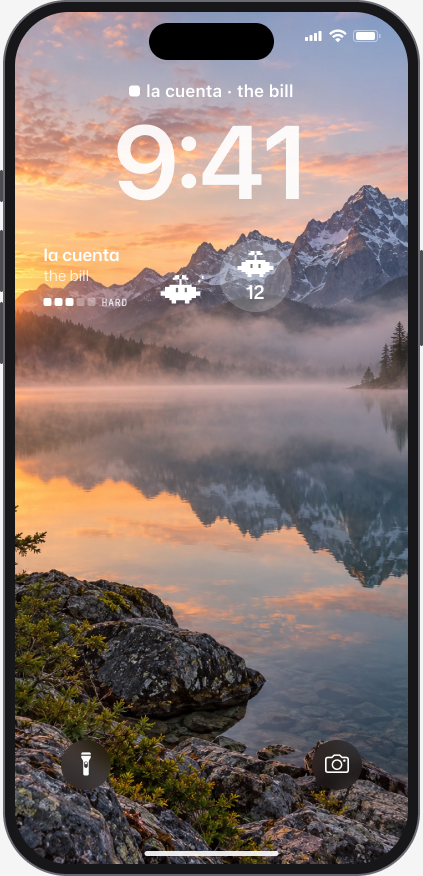
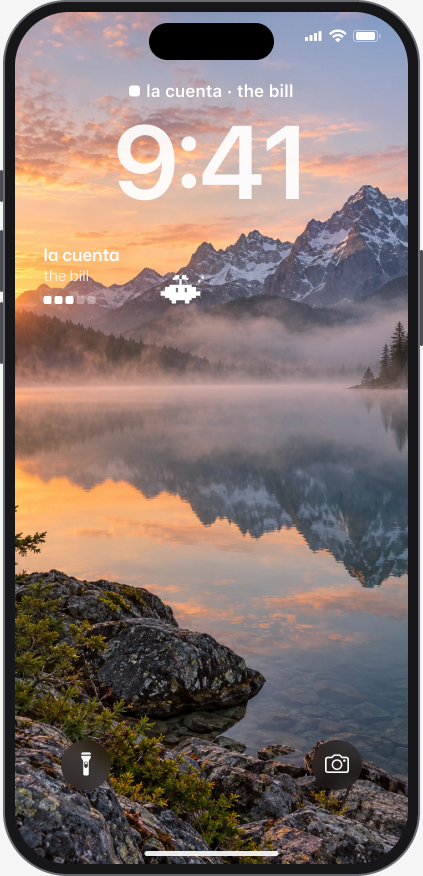
docs: widgets show hard words only, no card count, a tap opens Review on that word

Changed region(s): [[0.5225, 0.2774, 0.7069, 0.3699], [0.2459, 0.339, 0.3073, 0.3699], [0.1537, 0.339, 0.1844, 0.3699]]

diff --git a/docs/roadmap.html b/docs/roadmap.html
@@ -123,8 +123,8 @@ a{color:var(--green-text)}
 </article>
 <article class="card doing">
   <header><span class="num">6</span><h3>Widgets (full)</h3><div class="status"><span class="pill doing"><i></i>In progress</span><span class="note">proposed</span></div></header>
-  <div class="field"><span class="label">Done</span><div class="chips"><span class="chip">Spike passed (0.4)</span><span class="chip">2026-11-25: the iOS limits are written down (<code>docs/widget-limits.md</code>), the v1 design is in Figma (page "Widgets", frames "v1</span><span class="chip">…"; pictures in <code>docs/design/widgets/</code>), and two changes are proposed: each word gets 5 looks of 30 minutes, hard words first, the server makes the plan. <strong>Checkpoint 1: waits for Hamid.</strong></span></div></div>
-  <div class="field"><span class="label">Still open</span><div class="chips"><span class="chip"><code>lock-widgets</code> (server plan and look rule, inline, rectangular, circular, tap opens the word, O14)</span><span class="chip">then <code>home-widgets</code> (small, medium; light, dark, tinted; word picture)</span><span class="chip">a real iPhone may need the paid Apple account (app group)</span></div></div>
+  <div class="field"><span class="label">Done</span><div class="chips"><span class="chip">Spike passed (0.4)</span><span class="chip">2026-11-25: the iOS limits are written down (<code>docs/widget-limits.md</code>), the v1 design is in Figma (page "Widgets", frames "v1</span><span class="chip">…"; pictures in <code>docs/design/widgets/</code>), and two changes are proposed: only hard words, each gets 5 looks of 30 minutes, the server makes the plan, a tap opens Review with that word first (Hamid's first answer, 2026-11-25: no card count, no circular widget). <strong>Checkpoint 1: waits for Hamid.</strong></span></div></div>
+  <div class="field"><span class="label">Still open</span><div class="chips"><span class="chip"><code>lock-widgets</code> (server plan and look rule, inline, rectangular, tap opens Review on that word, O14)</span><span class="chip">then <code>home-widgets</code> (small, medium; light, dark, tinted; word picture)</span><span class="chip">a real iPhone may need the paid Apple account (app group)</span></div></div>
   <div class="field"><span class="label">Figma</span><p>Widgets</p></div>
 </article>
 <article class="card doing">

diff --git a/docs/roadmap.md b/docs/roadmap.md
@@ -51,7 +51,7 @@ Status: ⬜ not started · 🟨 in progress · ✅ done. Order follows the dev g
 | 3 | Progress tab | The tab exists with its Figma icon (empty screen, 2026-11-17) · `progress-server` (2026-11-20): the numbers (`GET /v1/progress`), the deck list (`GET /v1/decks`), hard and known flags on deck cards, restore a known word, a round for one deck · `progress-decks` (2026-11-20): Your decks (P2), the deck words page with counts, chain, filters, hard mark, Restore and "Review this deck" (P3), the Progress tab shows the total and opens the decks · `progress-home` (2026-11-20): P1 with new / learning / mastered, the goal grid, "BY <date> you'll master N new <language> words", Kai on the ground strip and the pixel meadow (one tree per deck, ported from `docs/design/pixel-meadow.html`) · `word-plan` (2026-11-20): Kai's plan of three next decks (`GET /v1/plan`, kept per learner); a tap asks Kai for that deck in the New words chat | A deck icon per topic and pictures (Hamid: no pictures for now) · "From a video" and "My own words" decks (not in v1) · "Recently deleted" (open decision 9) · not checked on a real phone | Progress | ✅ 2026-11-20 |
 | 4 | New words tab | `new-words-kai-chat` (2026-11-17): the tab is one ongoing chat with Kai. Kai is an agent with memory (profile, saved notes, the last 20 messages, word facts) on the real AI. Every Kai line has a translation, with an on/off button (on for A1/A2). Kai leads to Review. Figma N1–N8 updated. · `new-words-single-words` (2026-11-19): Kai answers "How do I say…?" and "What does … mean?" with a word card (word, speaker, meaning, example); "Add to Random Words 1" saves it as a normal new card in a deck of 30 made by the server (then "Random Words 2"); a word the learner already has is not added twice; the Review tab gets a red dot. · `new-words-decks` (2026-11-19): Kai offers 3 deck ideas as cards the learner swipes (on the first visit Kai asks first), or 1 card from the learner's own idea; each deck has its own size (10 to 30 words, Kai picks it) and a title in the learning language with a translation; Generate makes it, it is in the word list at once, Kai says so, the Review tab gets a red dot; then "Let's practice" or "Make another deck". · `remove-words-and-decks` (2026-11-19): on the deck page the learner swipes a word left and taps Delete, or taps Remove deck (a pop-up asks first); removed words leave Review, the hard words and what Kai knows; removing is a mark in the database, not a delete; a Random Words deck that lost a word has room again. · `new-words-polish` (2026-11-19): Kai's header follows the chat (listening, thinking, speaking, making, celebrate, oops, waiting after 20 quiet seconds, sleeping after 2 minutes); a tapped option moves up; Persian and Arabic text is right-aligned (each text by its own script: bubbles, translations, the composer, word and deck cards); scrolling to the top loads older messages, 50 at a time. | Free limits (Hamid, 2026-11-20: none for now, decided after the whole app is built, with epic 7) · deck pictures (Hamid, 2026-11-20: none for now) · the deck page N7 (it still shows the English topic as its heading) · the chat's line queue still uses its own typing rule, not `useKaiTyping` (its tests check that rule's times; see `new-words-polish`, tasks.md) · new Kai drawings for "asking", "I don't know" and "happy" (needs a design). | New words | ✅ 2026-11-19 (the three changes) |
 | 5 | Use it | `first-review`: Use it chat (A6–A6c), stage +1 on a good sentence; real AI check in the cloud (2026-11-17) · `use-it-rules` (2026-11-20): offered from Stage 3 (every word in the first round), a good sentence counts once per word per day, follow-up questions to Kai (`POST /v1/cards/{id}/ask`), a weak sentence keeps its options | Voice input (the mic in the text box does nothing; comes with Speak, after v1) · weekly free limit (Hamid: no limits for now) · not checked by a person on a real phone | Review | ✅ 2026-11-20 |
-| 6 | Widgets (full) | Spike passed (0.4) · 2026-11-25: the iOS limits are written down (`docs/widget-limits.md`), the v1 design is in Figma (page "Widgets", frames "v1 · …"; pictures in `docs/design/widgets/`), and two changes are proposed: each word gets 5 looks of 30 minutes, hard words first, the server makes the plan. **Checkpoint 1: waits for Hamid.** | `lock-widgets` (server plan and look rule, inline, rectangular, circular, tap opens the word, O14) · then `home-widgets` (small, medium; light, dark, tinted; word picture) · a real iPhone may need the paid Apple account (app group) | Widgets | 🟨 proposed |
+| 6 | Widgets (full) | Spike passed (0.4) · 2026-11-25: the iOS limits are written down (`docs/widget-limits.md`), the v1 design is in Figma (page "Widgets", frames "v1 · …"; pictures in `docs/design/widgets/`), and two changes are proposed: only hard words, each gets 5 looks of 30 minutes, the server makes the plan, a tap opens Review with that word first (Hamid's first answer, 2026-11-25: no card count, no circular widget). **Checkpoint 1: waits for Hamid.** | `lock-widgets` (server plan and look rule, inline, rectangular, tap opens Review on that word, O14) · then `home-widgets` (small, medium; light, dark, tinted; word picture) · a real iPhone may need the paid Apple account (app group) | Widgets | 🟨 proposed |
 | 7 | Paywall + trial | `first-review`: the screens (hard words, trial reminder, paywall). **It sells nothing.** | `paywall` (soft: closing = free plan; RevenueCat) · `free-limits` (server) · `sign-in-after-purchase` (the login page comes right after the user subscribes; the Figma login page must be fixed first: it has no top bar and no badge) · needs RevenueCat + Apple accounts | Onboarding | 🟨 |
 | 8 | Web app | `web-build` (2026-11-20): the app runs in a browser as one page app (onboarding, the three tabs, rounds, Use it, decks, Progress); guest session kept in the browser; bottom tab bar; Kai as still poses; browser dialogs; the server allows the web app's address (`WEB_ORIGINS`); CI builds the web app | A public address (Hamid decides; wait for free limits) · web payments (provider is open, decision 10) · live Kai on the web · a desktop layout · not checked in Safari, Firefox or a phone browser | all | 🟨 |
 | 9 | Launch prep | — | analytics events (PostHog) · account delete · one performance check · real testimonials · App Store submission | — | ⬜ |

diff --git a/openspec/changes/lock-widgets/design.md b/openspec/changes/lock-widgets/design.md
@@ -2,19 +2,20 @@
 Limits: `docs/widget-limits.md`. The widget code (`expo-widgets`) has no network, no timers and no imports; it only draws the props of the current timeline entry. So the server makes the plan, the app carries it, the widget shows it.
 
 ## Decisions
-- **A look is a 30-minute slot. Why 30:** a day has 16 waking hours = 32 slots. With 5 looks per word that is about 6 words a day, which fits a learner who gets 10 to 30 new words per deck and a few hard words a day. With 60 minutes only 3 words a day would get their looks, and a hard word would wait days for its turn. Shorter than 30 minutes and a word would often change before the person looked at the phone even once. 30 is the low end of Hamid's range (30 to 60); it is one constant on the server (`SLOT_MINUTES`), easy to change.
+- **A look is a 30-minute slot. Why 30:** a day has 16 waking hours = 32 slots. With 5 looks per word that is about 6 hard words a day, which fits a learner who swipes a few words Hard per round. With 60 minutes only 3 words a day would get their looks, and a hard word would wait days for its turn. Shorter than 30 minutes and a word would often change before the person looked at the phone even once. 30 is the low end of Hamid's range (30 to 60); it is one constant on the server (`SLOT_MINUTES`), easy to change.
 - **Words take turns in a group of 6** instead of 5 slots in a row. One word then comes back about every 3 hours, which is better for memory than 2.5 hours in one block, and the lock screen is not the same for a whole morning. With fewer than 6 words the group is smaller; with one word it repeats.
 - **Night slots do not count.** From 23:00 to 07:00 the widget keeps the last word of the evening and no look is counted, because nobody has the chance to see it.
-- **Order** (the server decides, the app never sorts): hard words first (fewest looks first, then oldest), then words in review with the nearest due date, then new words in deck order. Known and removed words are never in.
-- **After 5 looks** a word leaves the group and the next word in the order comes in. When every word had its 5 looks, a new lap starts with the same order. A word swiped Hard again starts at 0 looks.
+- **Only hard words** (Hamid, 2026-11-25). Order (the server decides, the app never sorts): fewest looks first, then the oldest card. A word is hard as the Review rules say (swiped Hard, until Stage 3). Known and removed words are never in.
+- **After 5 looks** a word leaves the group and the next word in the order comes in. When every hard word had its 5 looks, a new lap starts with the same order, so the widget is never empty while hard words exist. A word swiped Hard again starts at 0 looks.
 - **Looks never touch SRS.** No stage, no due date and no hard mark changes because of the widget. They live in their own table.
 - **The server counts by time.** It keeps the plan it handed out (`widget_plans`: user, slots, made at). On the next call it adds one look for every kept slot whose end has passed (`widget_looks`: user, card, looks, lap), then makes a new plan from now. It cannot know whether the widget is on the lock screen; a learner without the widget just rotates unseen.
-- **48 hours per plan** (64 slots at most, plus one last entry "New words wait · Open Lockwords"). The app refreshes the plan whenever it is opened, which is free of the iOS refresh budget.
+- **48 hours per plan** (64 slots at most, plus one last entry "Open Lockwords · for your hard words"). The app refreshes the plan whenever it is opened, which is free of the iOS refresh budget.
 - **The pose is not a rule.** The server sends `look` (1 to 5). The widget maps it to Kai's pose: 1 greeting, 2 idle, 3 thinking, 4 speaking, 5 celebrate. Kai has no animation in a widget; the new pose with each slot is what makes it feel alive.
-- **One widget, three lock families.** One `expo-widgets` widget "Lockwords" lists `accessoryRectangular`, `accessoryCircular`, `accessoryInline` (the home sizes join in `home-widgets`). The layout reads `environment.widgetFamily`.
+- **One widget, two lock families.** One `expo-widgets` widget "Lockwords" lists `accessoryRectangular` and `accessoryInline`. No circular: it cannot hold a word, and Hamid wants no card count (the home sizes join in `home-widgets`). The layout reads `environment.widgetFamily`.
 - **Kai on the lock screen is a one-color picture.** iOS keeps only brightness there, so Kai's body is white and the eyes are darker. The five poses are PNG files made from `assets/kai/*.svg` by a script, shipped with the app and copied once into the shared widget folder. If file pictures fail in the extension, the fallback is Kai drawn from rectangles in the layout.
 - **Font:** Mona Sans in the rectangular widget if a small config plugin of our own can put the font files into the extension; if not, the system font. The inline widget always uses the system font (iOS decides). This is tried in task 3.2 and the result is written in `tasks.md`.
-- **Tap:** the rectangular and inline widgets carry `widgetURL("lockwords://word/<cardId>")`; the circular one `lockwords://review`. The last entry opens the app's start. The word screen is the review flashcard alone, read from `GET /v1/cards/{id}` if it exists, else from the deck; no swipe there.
+- **Tap:** a word entry carries `widgetURL("lockwords://review?first=<cardId>")`. The app opens the Review tab and starts the round at once (no start screen) with `GET /v1/review?first=<cardId>`. The server puts that card first. The "no hard words" and "open the app" entries open the Review tab as it is.
+- **A tapped word that is not due today (open, see the question to Hamid).** A hard word was swiped Hard, so it is due tomorrow, and today the rules refuse a swipe on it. Proposed: the card still shows first as a **look card**: flip, speaker and Use it work, the three swipes are replaced by one "Next" button, and its level does not change. If the word is due today it is a normal first card.
 - **The time zone** comes with the call, like every review call. The day window is 07:00 to 23:00 in that zone.
 
 ## Risks

diff --git a/openspec/changes/lock-widgets/proposal.md b/openspec/changes/lock-widgets/proposal.md
@@ -4,12 +4,12 @@ Hard words on the lock screen is the main promise of Lockwords (`docs/product.md
 iOS never tells an app that a person looked at a widget (`docs/widget-limits.md` 8). So a "look" is a fixed time slot, not a real view.
 
 ## What Changes
-- **The look rule (server).** A word is on the widget for one **slot of 30 minutes**. A word is done after **5 slots**. Slots run only from 07:00 to 23:00 on the learner's clock. Words take turns (A, B, C … then A again), up to 6 words in a group, so the 5 looks of one word are spread over the day. Hard words come first, then the most-due words. Looking never changes a word's level.
-- **`GET /v1/widget/plan` (server).** Answers the list of slots for the next 48 hours: time, word, translation, hard or not, which look (1 to 5), plus the number of cards due today. The server keeps the plan it handed out and counts the slots whose time has passed.
+- **The look rule (server).** A word is on the widget for one **slot of 30 minutes**. A word is done after **5 slots**. Slots run only from 07:00 to 23:00 on the learner's clock. Words take turns (A, B, C … then A again), up to 6 words in a group, so the 5 looks of one word are spread over the day. **Only hard words are on the widget** (Hamid, 2026-11-25): that is its one job. Looking never changes a word's level.
+- **`GET /v1/widget/plan` (server).** Answers the list of slots for the next 48 hours: time, word, translation and which look (1 to 5). The server keeps the plan it handed out and counts the slots whose time has passed.
 - **The app hands the plan to the widget** (`expo-widgets`, app group) when it opens, when it comes back to the front, and after a review round. iOS only.
-- **Three lock screen widgets** (Figma "Widgets", v1 frames): rectangular (word, meaning, five squares for the look, HARD mark, a one-color Kai whose pose changes with the look), circular (Kai and the number of cards due today), inline (word · meaning next to the date).
-- **A tap opens the word** in the app: the address `lockwords://word/<id>` opens that word's card alone (flip, speaker, Use it, X). The circular widget opens the Review tab.
-- **When the list runs out** (the app was not opened for 2 days) the widget says "New words wait · Open Lockwords".
+- **Two lock screen widgets** (Figma "Widgets", v1 frames): rectangular (word, meaning, five squares for the look, a one-color Kai whose pose changes with the look) and inline (word · meaning next to the date). **No circular widget and no number of cards** (Hamid, 2026-11-25): a circle is too small for a word.
+- **A tap opens Review with that word as the first card** (Hamid, 2026-11-25): the address `lockwords://review?first=<id>`, and `GET /v1/review` takes `first`.
+- **With no hard words** the widget says "No hard words · Swipe left in Review". **When the list runs out** (the app was not opened for 2 days) it says "Open Lockwords · for your hard words".
 - **O14** ("Hard words go to your lock screen") shows the widget as designed, and one line on how to add it.
 - `docs/product.md` 7.4 gets the look rule. `docs/roadmap.md`, `docs/screens.md` are updated.
 
@@ -20,11 +20,12 @@ Out of scope: home screen widgets (next change, `home-widgets`); answering on th
 - `widgets/server`: the look rule and the widget plan.
 - `widgets/mobile`: handing the plan to the widget, the lock screen widgets, the tap.
 ### Modified Capabilities
-- `review/mobile`: Hard words screen (O14) shows the real widget look.
+- `review/mobile`: Hard words screen (O14) shows the real widget look; new: a round can start with one chosen word.
+- `review/server`: new: a round with a first card.
 
 ## Impact
-- Server: new `src/widget/plan.ts` (pure rule), `src/db/widget.ts`, `src/routes/widget.ts`, one migration (tables `widget_plans`, `widget_looks`), one line in `src/app.ts`, `openapi.json`.
-- App: **new native package `expo-widgets`** (Expo's own widget package, the one the spike used; `@expo/ui` is already installed). It adds a widget extension and an app group through its config plugin in `app.json`. **Every session needs a new dev build after this merges.** New `src/widgets/` (widget layout, plan sync), `src/app/word/[id].tsx`, `src/api/client.ts` (one function), `src/app/_layout.tsx` (start the sync), `src/components/lock-phone.tsx`, `src/app/intro/hard-words.tsx`.
+- Server: `src/routes/review.ts` and `src/review/srs.ts` (the `first` card), new `src/widget/plan.ts` (pure rule), `src/db/widget.ts`, `src/routes/widget.ts`, one migration (tables `widget_plans`, `widget_looks`), one line in `src/app.ts`, `openapi.json`.
+- App: **new native package `expo-widgets`** (Expo's own widget package, the one the spike used; `@expo/ui` is already installed). It adds a widget extension and an app group through its config plugin in `app.json`. **Every session needs a new dev build after this merges.** New `src/widgets/` (widget layout, plan sync), `src/app/(tabs)/review.tsx` and `src/review/round-store.ts` (the first card), `src/api/client.ts`, `src/app/_layout.tsx` (start the sync), `src/components/lock-phone.tsx`, `src/app/intro/hard-words.tsx`.
 - Shared files touched: `apps/server/src/app.ts`, `apps/server/src/db/schema.ts` + one migration, `openapi.json`, `apps/mobile/src/api/client.ts` and `schema.ts`, `app.json`, `docs/roadmap.md`.
 - Real iPhone: the build on Hamid's phone uses a free personal Apple team. The widget needs a second app ID and an app group. Not tried yet; it may need the paid Apple Developer account (`docs/widget-limits.md` 10).
 - Figma: page "Widgets", frames "v1 · …" (made 2026-11-25); components on page "Components", frame "08b Widgets v1". The old frames are kept below, marked OLD.

diff --git a/openspec/changes/lock-widgets/tasks.md b/openspec/changes/lock-widgets/tasks.md
@@ -1,21 +1,21 @@
 ## 1. Server: the look rule and the plan
-- [ ] 1.1 Tests first: `test/unit/widget-plan.test.ts` (30-minute slots, day window 07:00 to 23:00 in the learner's zone, turns in a group of 6, hard first, then most due, then new, 5 looks then the next word, a new lap, passed slots counted once, known and removed words left out, no words) and `test/integration/widget-plan.test.ts` (the kept plan and the looks in the database, `401` without a token). See them fail.
+- [ ] 1.1 Tests first: `test/unit/widget-plan.test.ts` (30-minute slots, day window 07:00 to 23:00 in the learner's zone, turns in a group of 6, only hard words, fewest looks first, 5 looks then the next word, a new lap, passed slots counted once, known and removed words left out, no words) and `test/integration/widget-plan.test.ts` (the kept plan and the looks in the database, `401` without a token). See them fail.
 - [ ] 1.2 `src/widget/plan.ts` (pure, `now` passed in), migration (`widget_plans`, `widget_looks`), `src/db/widget.ts`, `GET /v1/widget/plan` in `src/routes/widget.ts`, one line in `src/app.ts`. `npm run openapi`.
 - [ ] 1.3 A Hard swipe sets that word's looks to 0 (test first, in `widget-plan` tests; no existing test changes).
 
 ## 2. App: carry the plan
-- [ ] 2.1 `npx expo install expo-widgets`; the plugin entry in `app.json` (widget "Lockwords", three lock families, app group). New dev build on the simulator `LW New words 2`.
-- [ ] 2.2 Tests first: `__tests__/widget-sync.test.ts` (plan → timeline entries with look and pose, the last "open the app" entry, nothing on web or when signed out, a failed load keeps the old timeline). Then `npm run api:gen`, `api.fetchWidgetPlan`, `src/widgets/sync.ts`, called from `src/app/_layout.tsx` on start, on return to the front, and after a round.
+- [ ] 2.1 `npx expo install expo-widgets`; the plugin entry in `app.json` (widget "Lockwords", two lock families, app group). New dev build on the simulator `LW New words 2`.
+- [ ] 2.2 Tests first: `__tests__/widget-sync.test.ts` (plan → timeline entries with look and pose, the "no hard words" entry, the last "open the app" entry, nothing on web or when signed out, a failed load keeps the old timeline). Then `npm run api:gen`, `api.fetchWidgetPlan`, `src/widgets/sync.ts`, called from `src/app/_layout.tsx` on start, on return to the front, and after a round.
 
 ## 3. The lock screen widgets
-- [ ] 3.1 `src/widgets/lockwords-widget.tsx`: rectangular, circular, inline as in Figma "Widgets" v1; Kai one-color PNG poses made by `scripts/gen-widget-kai.mjs` and copied to the shared folder.
+- [ ] 3.1 `src/widgets/lockwords-widget.tsx`: rectangular and inline as in Figma "Widgets" v1; Kai one-color PNG poses made by `scripts/gen-widget-kai.mjs` and copied to the shared folder.
 - [ ] 3.2 Try Mona Sans in the extension (own config plugin `plugins/with-widget-fonts.js`). Write the result here; fall back to the system font if it fails.
-- [ ] 3.3 Tap: tests first for `src/app/word/[id].tsx` (loading, error, the card, X goes to the tabs), then the screen and the `lockwords://word/<id>` and `lockwords://review` addresses.
+- [ ] 3.3 Tap: tests first, server (`GET /v1/review?first=`: the card is first, due or not; another learner's or a removed card is ignored) and app (the address `lockwords://review?first=<id>` opens the Review tab inside the round with that card on top; a look card has Next and no swipes). Then build both. No existing test is changed.
 
 ## 4. O14 and docs
 - [ ] 4.1 O14: test first (the phone shows the widget look: word, meaning, five squares; the line "Hold your lock screen, tap Customize, add Lockwords"). Update `LockPhone`, the Figma frame O14 and `docs/screens.md`.
 - [ ] 4.2 `docs/product.md` 7.4 (the look rule), `docs/roadmap.md`, `docs/architecture.md`, `apps/mobile/CLAUDE.md`.
 
 ## 5. Check
-- [ ] 5.1 On the simulator: add the three widgets to the lock screen, see a real word of the signed-in learner, move the clock 30 minutes and see the next word, tap and land on the word. Screenshots in the PR. Maestro flow `e2e/flows/lock-widgets.yaml` for the app side (O14, the word screen from the address), video `e2e/videos/lock-widgets.mp4`.
+- [ ] 5.1 On the simulator: add the two widgets to the lock screen, see a real word of the signed-in learner, move the clock 30 minutes and see the next word, tap and land in Review on that word. Screenshots in the PR. Maestro flow `e2e/flows/lock-widgets.yaml` for the app side (O14, Review from the address with the word first), video `e2e/videos/lock-widgets.mp4`.
 - [ ] 5.2 Try the build on Hamid's iPhone. Write plainly what worked and what was not checked.

diff --git a/openspec/changes/lock-widgets/specs/widgets/mobile/spec.md b/openspec/changes/lock-widgets/specs/widgets/mobile/spec.md
@@ -1,7 +1,7 @@
 ## ADDED Requirements
 
 ### Requirement: The app hands the plan to the widget
-On iOS the app SHALL load `GET /v1/widget/plan` and give the slots to the widget as a timeline when the app starts with a signed-in learner, when it comes back to the front, and after a review round. The last timeline entry, at `endsAt`, is the "open the app" entry. If the load fails the widget keeps what it had. The web app and Android do nothing.
+On iOS the app SHALL load `GET /v1/widget/plan` and give the slots to the widget as a timeline when the app starts with a signed-in learner, when it comes back to the front, and after a review round. The last timeline entry, at `endsAt`, is the "open the app" entry. A plan with no slots gives one "no hard words" entry. If the load fails the widget keeps what it had. The web app and Android do nothing.
 
 #### Scenario: App opened
 - **WHEN** the learner opens the app and the plan has 12 slots
@@ -12,19 +12,15 @@ On iOS the app SHALL load `GET /v1/widget/plan` and give the slots to the widget
 - **THEN** the widget timeline is not changed and no error shows
 
 ### Requirement: Lock screen widgets
-The widget "Lockwords" SHALL offer three lock screen sizes that follow Figma "Widgets" (v1 frames): rectangular, circular and inline. They use no color and have no buttons. A word or meaning that is too long gets a smaller font, then is cut with "…".
+The widget "Lockwords" SHALL offer two lock screen sizes that follow Figma "Widgets" (v1 frames): rectangular and inline. It shows hard words only, and never a number of cards. They use no color and have no buttons. A word or meaning that is too long gets a smaller font, then is cut with "…".
 
 #### Scenario: Rectangular
 - **WHEN** the current slot is a word
-- **THEN** the widget shows the word, its meaning, five squares with one filled per look so far, "HARD" if the word is hard, and Kai in one color
+- **THEN** the widget shows the word, its meaning, five squares with one filled per look so far, and Kai in one color
 
 #### Scenario: Kai's pose
 - **WHEN** the look is 1, 2, 3, 4 or 5
 - **THEN** Kai's pose is greeting, idle, thinking, speaking or celebrate
-
-#### Scenario: Circular
-- **WHEN** 12 cards are due today
-- **THEN** the circular widget shows Kai and "12"
 
 #### Scenario: Inline
 - **WHEN** the current slot is "la cuenta"
@@ -32,23 +28,23 @@ The widget "Lockwords" SHALL offer three lock screen sizes that follow Figma "Wi
 
 #### Scenario: Third look of a hard word
 - **WHEN** the current slot is look 3 of the hard word "la cuenta"
-- **THEN** the rectangular widget shows "la cuenta", "the bill", three filled squares of five, "HARD" and Kai thinking
+- **THEN** the rectangular widget shows "la cuenta", "the bill", three filled squares of five and Kai thinking
 
-#### Scenario: Before the first plan
-- **WHEN** the widget was added and the app has no plan yet
-- **THEN** it shows "New words wait" and "Open Lockwords"
+#### Scenario: No hard words
+- **WHEN** the plan has no slots, or the widget was added before the app had a plan
+- **THEN** it shows "No hard words" and "Swipe left in Review"
 
 #### Scenario: The list ran out
 - **WHEN** the time is after `endsAt`
-- **THEN** the rectangular widget shows "New words wait" and "Open Lockwords", and the circular widget shows Kai with no number
+- **THEN** it shows "Open Lockwords" and "for your hard words"
 
-### Requirement: A tap opens the word
-A tap on the rectangular or inline widget SHALL open the app on that word: the word's card alone, with flip, speaker and Use it, and an X that goes to the tabs. A tap on the circular widget opens the Review tab. A tap on the "open the app" entry opens the app where it starts. If the word cannot be loaded (removed, or no connection) the app opens the Review tab.
+### Requirement: A tap opens Review on that word
+A tap on the widget while it shows a word SHALL open the app on the Review tab, inside the round, with that word as the first card. A tap on the "No hard words" or "Open Lockwords" entry opens the Review tab as it is. If the round cannot be loaded, the Review tab shows its own error.
 
 #### Scenario: Tap on a word
 - **WHEN** the learner taps the widget while it shows "la cuenta"
-- **THEN** the app opens the card of "la cuenta", front side up
+- **THEN** the Review tab opens with the card of "la cuenta" on top, front side up, and the rest of today's round under it
 
 #### Scenario: Removed word
 - **WHEN** the tapped word was removed
-- **THEN** the Review tab opens
+- **THEN** the Review tab opens as it is

diff --git a/docs/widget-limits.md b/docs/widget-limits.md
@@ -12,7 +12,7 @@ Where Apple's docs say nothing, this file says so.
 | 2 | **No free animation.** A widget only animates when its content changes, for 2 seconds at most. | Kai cannot move by itself. Kai gets a new still pose with every new word slot. |
 | 3 | **The widget cannot fetch.** With `expo-widgets` its code has no network and no timers. | The app gets the word plan from the server and hands it to the widget. |
 | 4 | **The lock screen has no color.** iOS turns everything into one tint. | Lock widgets are designed in white and greys. Kai needs a one-color drawing. |
-| 5 | **A lock screen widget is tiny.** 160×72 points for the big one. | One word, its meaning, five small squares, a small Kai. Nothing more fits. |
+| 5 | **A lock screen widget is tiny.** 160×72 points for the big one. | One hard word, its meaning, five small squares, a small Kai. Nothing more fits. The round one (72×72) is too small for a word, so we do not make it. |
 | 6 | **A real iPhone needs an app group on the Apple account.** | Works on the simulator. On Hamid's phone it is not sure yet (see "Signing"). |
 
 ## 1. Sizes
@@ -29,7 +29,7 @@ Sizes in points, from the HIG table "iOS dimensions":
 - Lock screen: inline (one line of text next to the date), circular, rectangular.
 - The small widget also shows in StandBy (the phone on its side while charging).
 - Sizes for the newest screens (402×874, 440×956) are not in Apple's table. The layout must stretch, not use fixed numbers.
-- **We use:** inline, circular, rectangular, small, medium (as `docs/product.md` 7.4 says). No large widget in v1.
+- **We use:** inline, rectangular, small, medium. No circular widget (Hamid, 2026-11-25: hard words only, no card count) and no large widget in v1.
 
 ## 2. Animation
 
@@ -81,7 +81,7 @@ All from AD `/widgetkit/keeping-a-widget-up-to-date`.
 
 - The app and the widget share one folder, the **app group** (`group.com.comebackhamid.lockwords`). The app writes, the widget reads.
 - With `expo-widgets` the app calls `updateTimeline(entries)`. The widget then runs alone from that list (`policy: .atEnd`).
-- The widget cannot ask the server by itself. If the app is not opened for days, the list runs out and the widget keeps its last entry. So the last entry must be a good one ("Open Lockwords for new words").
+- The widget cannot ask the server by itself. If the app is not opened for days, the list runs out and the widget keeps its last entry. So the last entry must be a good one ("Open Lockwords · for your hard words").
 - A silent push can ask iOS to reload a widget (iOS 26), but it cannot bring new words without our app code running, and it needs the paid Apple account. Not in v1.
 - `expo-widgets` cannot tell us whether the person added the widget. So the metric "Widget added" (`docs/product.md` 5) cannot be measured yet. A tap on the widget can be counted.
 

diff --git a/openspec/changes/lock-widgets/specs/widgets/server/spec.md b/openspec/changes/lock-widgets/specs/widgets/server/spec.md
@@ -20,27 +20,27 @@ The server SHALL count a look for a word for every 30-minute widget slot of that
 - **THEN** its stage, due date and hard mark are what they were
 
 ### Requirement: Widget plan
-`GET /v1/widget/plan` SHALL answer `200` with `{ slots, due, endsAt }` for the signed-in learner: the slots of the next 48 hours, the number of cards in today's round, and the end of the last slot. A slot has `at`, `cardId`, `word`, `translation`, `hard` and `look` (1 to 5). The server keeps the plan to count looks. The call carries the learner's time zone. Without a valid token the answer is `401`.
+`GET /v1/widget/plan` SHALL answer `200` with `{ slots, endsAt }` for the signed-in learner: the slots of the next 48 hours and the end of the last slot. A slot has `at`, `cardId`, `word`, `translation` and `look` (1 to 5). Only hard words are in the plan. The server keeps the plan to count looks. The call carries the learner's time zone. Without a valid token the answer is `401`.
 
 #### Scenario: Turns
-- **WHEN** the learner has 8 words with 0 looks
+- **WHEN** the learner has 8 hard words with 0 looks
 - **THEN** the first 6 words in the order take turns, one slot each, and the 7th word first shows in the slot after one of them had its 5th look
 
 #### Scenario: One word
-- **WHEN** the learner has one word
+- **WHEN** the learner has one hard word
 - **THEN** every slot is that word with looks 1 to 5, and after the 5th a new lap starts at look 1
 
-#### Scenario: No words
-- **WHEN** the learner has no cards
-- **THEN** `slots` is empty and `due` is 0
+#### Scenario: No hard words
+- **WHEN** the learner has cards but none is hard
+- **THEN** `slots` is empty
 
 ### Requirement: Widget order
-The plan SHALL take words in this order: hard words (fewest looks first, then the oldest card), then cards in review by the nearest due date, then new cards in deck order (oldest deck first). Cards marked known or removed are never in the plan. When every word in the order has 5 looks, a new lap starts and every word counts from 0 again.
+The plan SHALL hold only hard cards (the hard mark of the Review rules) that are not known and not removed, the one with the fewest looks first, then the oldest card. When every hard word has 5 looks, a new lap starts and every word counts from 0 again.
 
-#### Scenario: Hard first
+#### Scenario: Not hard
 - **WHEN** the learner has a hard word and a word due today that is not hard
-- **THEN** the hard word has the first slot
+- **THEN** every slot is the hard word
 
-#### Scenario: Known word
-- **WHEN** a word in the kept plan is swiped I know it and the plan is asked for again
+#### Scenario: No longer hard
+- **WHEN** a word in the kept plan reaches Stage 3 or is swiped I know it, and the plan is asked for again
 - **THEN** no slot has that word

diff --git a/openspec/changes/home-widgets/specs/widgets/mobile/spec.md b/openspec/changes/home-widgets/specs/widgets/mobile/spec.md
@@ -1,11 +1,11 @@
 ## ADDED Requirements
 
 ### Requirement: Home screen widgets
-The widget "Lockwords" SHALL offer a small and a medium home screen size that follow Figma "Widgets" (v1 frames). They follow the phone's light or dark look, use one color on a tinted or clear home screen, and have no buttons. A tap opens the word, as on the lock screen.
+The widget "Lockwords" SHALL offer a small and a medium home screen size that follow Figma "Widgets" (v1 frames). They follow the phone's light or dark look, use one color on a tinted or clear home screen, and have no buttons. They show hard words only. A tap opens Review on that word, as on the lock screen.
 
 #### Scenario: Small
-- **WHEN** the current slot is look 1 of "el mesero", not hard
-- **THEN** the small widget shows "REVIEW", "el mesero", "the waiter", one filled square of five and Kai waving
+- **WHEN** the current slot is look 1 of "el mesero"
+- **THEN** the small widget shows "HARD WORD", "el mesero", "the waiter", one filled square of five and Kai waving
 
 #### Scenario: Medium, hard word with a picture
 - **WHEN** the current slot is look 3 of the hard word "la cuenta" and its picture is saved
@@ -19,9 +19,9 @@ The widget "Lockwords" SHALL offer a small and a medium home screen size that fo
 - **WHEN** the phone is in dark mode
 - **THEN** the widget uses the dark colors of the Figma dark frame
 
-#### Scenario: The list ran out
-- **WHEN** the time is after the plan's end
-- **THEN** the widget shows "New words wait" and "Open Lockwords"
+#### Scenario: No hard words
+- **WHEN** the plan has no slots
+- **THEN** the widget shows "No hard words", "Swipe left in Review" and Kai
 
 ### Requirement: Pictures for the widget
 When the app hands over a plan, it SHALL save the picture of each slot's word as a small file (252 pixels wide and high at most) in the folder shared with the widget, once per word, and delete the files of words that are no longer in the plan. A picture that cannot be downloaded is skipped.

diff --git a/openspec/changes/home-widgets/proposal.md b/openspec/changes/home-widgets/proposal.md
@@ -2,12 +2,12 @@
 `docs/product.md` 7.4 promises home screen widgets in v1: small and medium, full color, see and open only. The lock screen widgets (`lock-widgets`) bring the plan, the look rule and the tap. This change adds the two home screen sizes on top. It starts after `lock-widgets` is merged.
 
 ## What Changes
-- **Small widget (158×158):** the label (HARD WORD in red, or REVIEW in green), the word, its meaning, five squares for the look (each look a darker green, like the level squares), and Kai in color in the corner with the pose of the look.
+- **Small widget (158×158):** the label HARD WORD in red, the word, its meaning, five squares for the look (each look a darker green, like the level squares), and Kai in color in the corner with the pose of the look.
 - **Medium widget (338×158):** the same, plus the example sentence with the word in bold, and the word's picture on the right with a small Kai at its corner. A word with no picture shows a big Kai on a ground line instead.
 - **Light and dark:** the widgets follow the phone. Dark uses dark greens and a near-black card (the app itself stays light in v1).
 - **Tinted and clear home screens (iOS 18 and 26):** iOS removes our colors. The widget then uses the one-color Kai and a faded picture.
 - **The plan carries what the medium widget needs:** `example` and `imageUrl` per slot. The app saves each picture as a small file in the shared widget folder.
-- The same tap as the lock widgets: the word opens in the app.
+- The same tap as the lock widgets: Review opens with that word first. Hard words only, like the lock widgets.
 
 Out of scope: a large widget; buttons on the widget (after v1); the "words due" widget of the old Figma frame.
 

diff --git a/openspec/changes/lock-widgets/specs/review/server/spec.md b/openspec/changes/lock-widgets/specs/review/server/spec.md
@@ -1,0 +1,16 @@
+## ADDED Requirements
+
+### Requirement: A round with a first card
+`GET /v1/review` SHALL take `first=<cardId>`. When that card belongs to the learner and is not known or removed, it is the first card of the round, and the rest of today's round follows in its usual order. A card that is due today is a normal card. (open: Hamid decides) A card that is not due today comes with `lookOnly: true`: it can be flipped, heard and used in Use it, a swipe on it is still refused, and its level does not change. An unknown, removed or known id is ignored.
+
+#### Scenario: Due today
+- **WHEN** the round is asked for with `first` = a hard card that is due today
+- **THEN** that card is first, once, with no `lookOnly`
+
+#### Scenario: Not due today
+- **WHEN** the round is asked for with `first` = a hard card swiped Hard this morning
+- **THEN** that card is first with `lookOnly: true`, and a swipe on it answers `409`
+
+#### Scenario: Unknown id
+- **WHEN** `first` is another learner's card
+- **THEN** the round is the usual round

diff --git a/openspec/changes/lock-widgets/specs/review/mobile/spec.md b/openspec/changes/lock-widgets/specs/review/mobile/spec.md
@@ -10,3 +10,16 @@ The screen "Hard words go to your lock screen" SHALL show a phone with the lock 
 #### Scenario: No hard words
 - **WHEN** the learner has no hard words
 - **THEN** the phone shows a word of the round just finished and no list
+
+## ADDED Requirements
+
+### Requirement: A round that starts with a chosen word
+When the app is opened with the address `lockwords://review?first=<id>`, the Review tab SHALL skip its start screen and show the round from `GET /v1/review?first=<id>`. A card with `lookOnly` shows "Next" in place of the three swipe buttons and cannot be swiped; "Next" goes to the next card. If a round is already open, the chosen word is put on top of it.
+
+#### Scenario: From the widget
+- **WHEN** the app opens with `lockwords://review?first=<id of "la cuenta">`
+- **THEN** the round shows "la cuenta" on top with no start screen
+
+#### Scenario: Look card
+- **WHEN** the first card has `lookOnly`
+- **THEN** it can be flipped, the speaker and Use it work, "Next" shows, and a swipe does nothing
